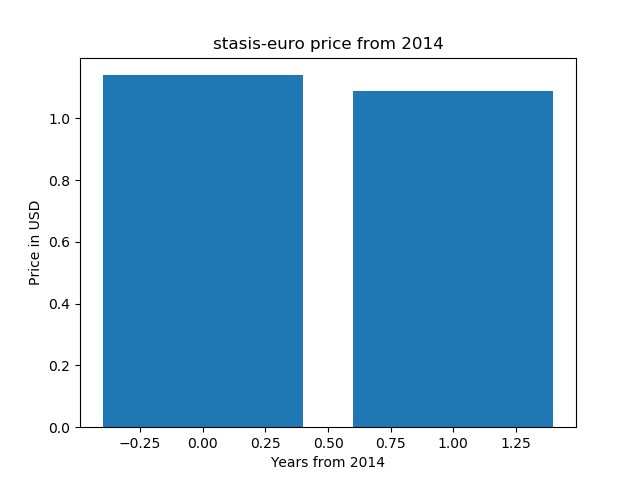
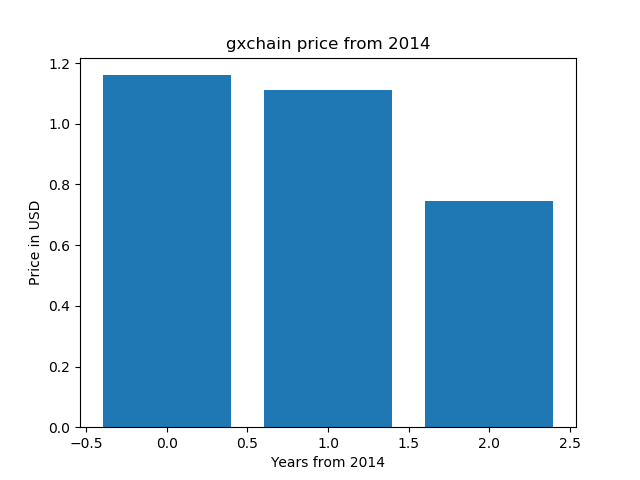
first commit

diff --git a/example.py b/example.py
@@ -10,7 +10,7 @@ from time import gmtime, strftime
 import matplotlib.pyplot as plt
 
 enddate = strftime("%Y%m%d", gmtime())
-r  = requests.get("https://coinmarketcap.com/currencies/stasis-euro/historical-data/?start=20140101&end={0}".format(enddate))
+r  = requests.get("https://coinmarketcap.com/currencies/gxchain/historical-data/?start=20140101&end={0}".format(enddate))
 data = r.text
 
 soup = BeautifulSoup(data, "html.parser")
@@ -44,7 +44,7 @@ print(x)
 
 x = list(range(0, len(prices)))
 
-plt.title('stasis-euro price from 2014')
+plt.title('gxchain price from 2014')
 plt.ylabel('Price in USD')
 plt.xlabel('Years from 2014')
 plt.bar(x, prices)

diff --git a/README.md b/README.md
@@ -1,6 +1,6 @@
-# stasis-euro price chart 
+# gxchain price chart 
 
-stasis-euro price chart (matplotlib, python)
+gxchain price chart (matplotlib, python)
 
 https://pythonprogramminglanguage.com
 
